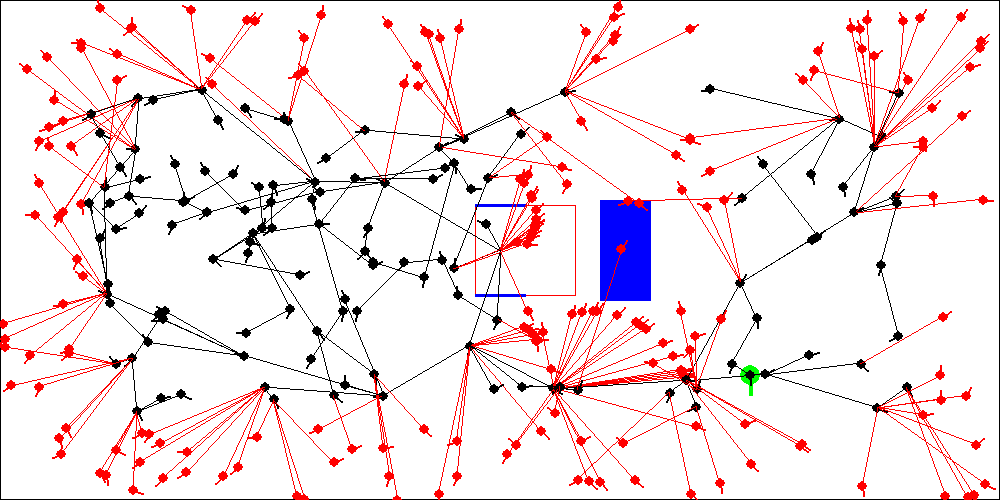
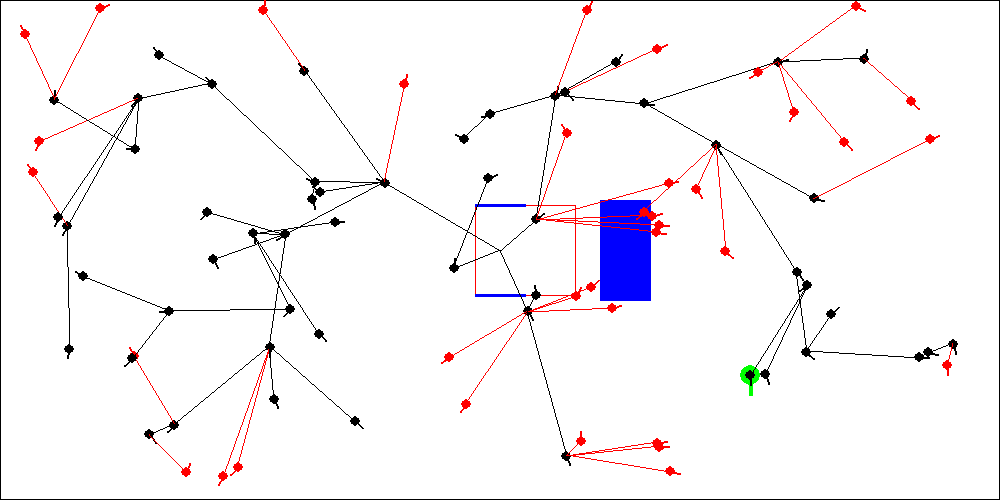
detected circular collision

diff --git a/functions.py b/functions.py
@@ -66,6 +66,57 @@ max_translation_speed = velocity    #mm per sec
 precision = 1e-3
 PI = np.pi
 
+
+r_s = np.sqrt((robot_width/2)**2+(wheel_radius)**2)
+r_b = np.sqrt((robot_width/2)**2+(robot_height - wheel_radius)**2)
+theta_s = np.arctan2(robot_width/2, wheel_radius)
+theta_b = np.arctan2(robot_width/2, robot_height - wheel_radius)
+
+# Meet
+def segment_arc_intersect(p1, p2, o, r, h1, h2):
+
+	h = np.arctan2(p2[1]-p1[1],p2[0]-p1[0])
+
+	dist_p1_p2 = np.sqrt((p1[0]-p2[0])**2+(p1[1]-p2[1])**2)
+	dist_p1_c = np.sqrt((p1[0]-o[0])**2+(p1[1]-o[1])**2)
+
+	a = 1
+	b = 2*(p1[0]-o[0])*np.cos(h)+2*(p1[1]-o[1])*np.sin(h)
+	c = dist_p1_c**2 - r**2
+
+	if b**2 >= 4*a*c:
+		r1 = (-b+np.sqrt(b**2-4*a*c))/(2*a)
+		r2 = (-b+np.sqrt(b**2-4*a*c))/(2*a)
+
+		if 0 <= r1 <= dist_p1_p2:
+
+			pnx = p1[0] + r1*np.cos(h)
+			pny = p1[1] + r1*np.sin(h)
+
+			pnh = np.arctan2(pny-o[1], pnx-o[0])
+
+			pnhr = (pnh - h1) % (2*np.pi)
+			h2r = (h2 - h1) % (2*np.pi)
+
+			if pnhr <= h2r:
+				return True
+
+		if 0 <= r2 <= dist_p1_p2:
+
+			pnx = p1[0] + r2*np.cos(h)
+			pny = p1[1] + r2*np.sin(h)
+
+			pnh = np.arctan2(pny-o[1], pnx-o[0])
+
+			pnhr = (pnh - h1) % (2*np.pi)
+			h2r = (h2 - h1) % (2*np.pi)
+
+			if pnhr <= h2r:
+				return True
+	
+	return False
+
+
 # Yuanyuan, Meet
 def check_collision(s_start, s_end, action, obstacles):
 	# Given a straight line path from state s_start to state s_end, check if the path intersects with any obstacles
@@ -101,7 +152,7 @@ def check_collision(s_start, s_end, action, obstacles):
 
   
 	# First Rotation
-	a_rot1 = Point(x_start, y_start).buffer(radius)
+	# a_rot1 = Point(x_start, y_start).buffer(radius)
 	
 	# straight line with obstacles
 	if (x_end - y_start) == 0.0:
@@ -138,24 +189,80 @@ def check_collision(s_start, s_end, action, obstacles):
 	a_straight = Polygon([(point1_x, point1_y), (point2_x, point2_y), (point3_x,point3_y), (point4_x, point4_y)])
 	   
 	# Second Rotation
-	a_rot2 = Point(x_end,y_end).buffer(radius)
+	# a_rot2 = Point(x_end,y_end).buffer(radius)
     
-	a_tot = a_straight.union(a_rot2)
-	a_tot = a_tot.union(a_rot1)
+	# a_tot = a_straight.union(a_rot2)
+	# a_tot = a_tot.union(a_rot1)
+
+
 	# check collision with obstacles
 	for obstacle in obstacles:
 		b = Polygon(obstacle)
-		if a_tot.intersection(b).area > 0:
+		if a_straight.intersection(b).area > 0:
 			return True
 	# check collision with boundaries
-	if a_tot.intersection(bound_1).area > 0:
+	if a_straight.intersection(bound_1).area > 0:
 		return True
-	if a_tot.intersection(bound_2).area > 0:
+	if a_straight.intersection(bound_2).area > 0:
 		return True
-	if a_tot.intersection(bound_3).area > 0:
+	if a_straight.intersection(bound_3).area > 0:
 		return True
-	if a_tot.intersection(bound_4).area > 0:
+	if a_straight.intersection(bound_4).area > 0:
 		return True
+
+	h_mid = np.arctan2(y_end - y_start, x_end - x_start)
+
+	if (h_start - h_mid) % (2*np.pi) < np.pi:
+		h1i = h_mid
+		h2i = h_start
+	else:
+		h1i = h_start
+		h2i = h_mid
+
+	if (h_end - h_mid) % (2*np.pi) < np.pi:
+		h1f = h_mid
+		h2f = h_end
+	else:
+		h1f = h_end
+		h2f = h_mid
+
+	oi = (x_start, y_start)
+	of = (x_end, y_end)
+
+	arcs = [
+		(oi, r_s, h1i + theta_s, h2i + theta_s),
+		(oi, r_s, h1i - theta_s, h2i - theta_s),
+		(oi, r_b, h1i + theta_b + np.pi, h2i + theta_b + np.pi),
+		(oi, r_b, h1i - theta_b + np.pi, h2i - theta_b + np.pi),
+		(of, r_s, h1f + theta_s, h2f + theta_s),
+		(of, r_s, h1f - theta_s, h2f - theta_s),
+		(of, r_b, h1f + theta_b + np.pi, h2f + theta_b + np.pi),
+		(of, r_b, h1f - theta_b + np.pi, h2f - theta_b + np.pi),
+	]
+
+	centred_arcs = []
+
+	for p1,p2,p3,p4 in obstacles:
+		for arc in arcs:
+			if segment_arc_intersect(p1, p2, *arc):
+				return True
+			if segment_arc_intersect(p2, p3, *arc):
+				return True
+			if segment_arc_intersect(p3, p4, *arc):
+				return True
+			if segment_arc_intersect(p4, p1, *arc):
+				return True
+
+
+	for arc in arcs:
+		if segment_arc_intersect((0,0), (L,0), *arc):
+			return True
+		if segment_arc_intersect((L,0), (L,W), *arc):
+			return True
+		if segment_arc_intersect((L,W), (0,W), *arc):
+			return True
+		if segment_arc_intersect((0,W), (0,0), *arc):
+			return True
 
 	return False
 
